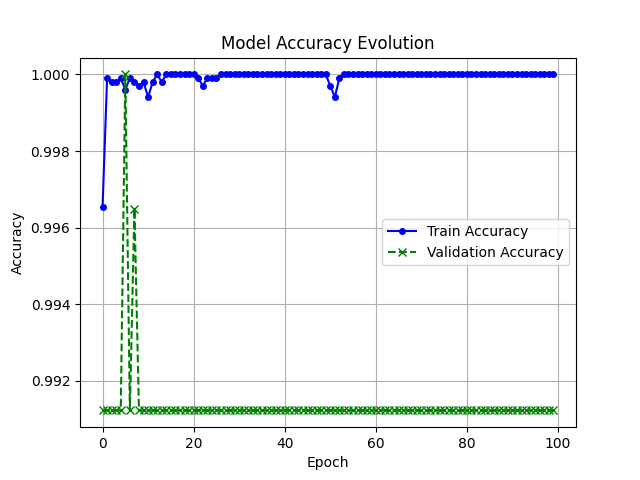
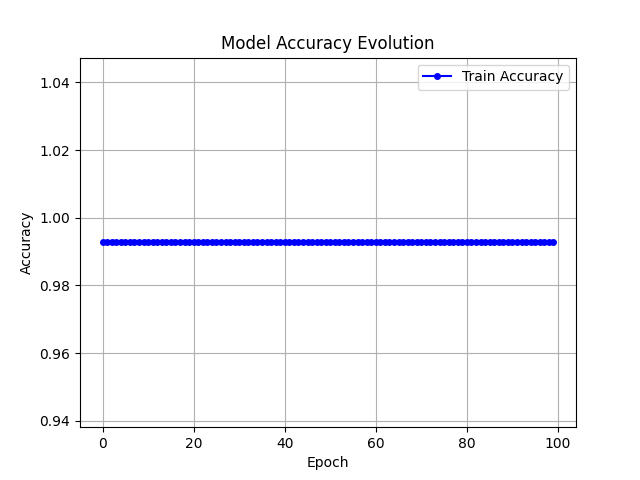
nn.py modified

diff --git a/src/daneel/detection/nn.py b/src/daneel/detection/nn.py
@@ -74,17 +74,23 @@ class NeuralNetworkDetector:
         df_dev_y = (df_eval["LABEL"] == 2).astype(int)
 
         return df_train_x, df_train_y, df_dev_x, df_dev_y
+    
+
+    
 
     def preprocess_data(self, df_train_x, df_train_y, df_dev_x, df_dev_y):
         print("Applying SMOTE to balance classes...")
-        sm = SMOTE()
-        df_train_x, df_train_y = sm.fit_resample(df_train_x, df_train_y)
+        #sm = SMOTE()
+        #df_train_x, df_train_y = sm.fit_resample(df_train_x, df_train_y)
+        
 
         print("Preprocessing data with Fourier Transform, Normalization, etc...")
-        processor = LightFluxProcessor()
-        df_train_x, df_dev_x = processor.process(df_train_x, df_dev_x)
+        processor = LightFluxProcessor()   #applying preprocess to the data already divided between data and labels
+        df_train_x, df_dev_x= processor.process(df_train_x, df_dev_x)
+        print(np.shape(df_train_x))
 
-        return df_train_x, df_train_y, df_dev_x, df_dev_y
+        return df_train_x, df_train_y, df_dev_x, df_dev_y  #the function just returns the values after the preprocessing
+
 
     def build_network(self, input_shape):
         model = tf.keras.models.Sequential()
@@ -107,20 +113,16 @@ class NeuralNetworkDetector:
 
     def train_and_evaluate(self):
         # Load and preprocess data
-        df_train_x, df_train_y, df_dev_x, df_dev_y = self.load_data()
-        df_train_x, df_train_y, df_dev_x, df_dev_y = self.preprocess_data(df_train_x, df_train_y, df_dev_x, df_dev_y)
+        df_train_x, df_train_y, df_dev_x, df_dev_y = self.load_data() #data loaded and divided
+
+        
+        df_train_x, df_train_y, df_dev_x, df_dev_y = self.preprocess_data(df_train_x, df_train_y, df_dev_x, df_dev_y) #divided data are preprocessed
 
         # Build and train the network
-        model = self.build_network(input_shape=df_train_x.shape[1:])
+        model = self.build_network(input_shape=df_train_x.shape[1:])  #now building the model for the specific input of data, returns the model with all of its characteristics
         print("Training Neural Network...")
-        history = model.fit(
-            df_train_x,
-            df_train_y,
-            validation_data=(df_dev_x, df_dev_y),
-            epochs=self.epochs,
-            batch_size=self.batch_size,
-            verbose=1  # Shows progress for each epoch
-        )
+        history = model.fit(df_train_x,  df_train_y, epochs=self.epochs,  batch_size=self.batch_size) # Shows progress for each epoch
+        
         
         # Plot accuracy and loss evolution
         self.plot_metrics(history)
@@ -129,40 +131,40 @@ class NeuralNetworkDetector:
         self.evaluate_model(model, df_train_x, df_train_y, df_dev_x, df_dev_y)
 
         # Save the model weights
-        model.save_weights("nn_model_weights.h5")
-        print("Model weights saved to nn_model_weights.h5")
+        #model.save_weights("nn_model_weights.h5")
+        #print("Model weights saved to nn_model_weights.h5")
 
-    def evaluate_model(self, model, X_train, Y_train, X_eval, Y_eval):
+    def evaluate_model(self, model, X_train, Y_train, X_dev, Y_dev):
         # Predictions
-        train_preds = (model.predict(X_train) > 0.5).astype(int)
-        eval_preds = (model.predict(X_eval) > 0.5).astype(int)
+        train_outputs = (model.predict(X_train, batch_size=self.batch_size) > 0.5).astype(int)
+        dev_outputs = (model.predict(X_dev, batch_size=self.batch_size) > 0.5).astype(int)
 
-        # Metrics
-        self.report_metrics(Y_train, train_preds, "Train")
-        self.report_metrics(Y_eval, eval_preds, "Eval")
+        # Final Metrics
+        accuracy_train = accuracy_score(Y_train, train_outputs)
+        accuracy_dev = accuracy_score(Y_dev, dev_outputs)
+        precision_train = precision_score(Y_train, train_outputs)
+        precision_dev = precision_score(Y_dev, dev_outputs)
+        recall_train = recall_score(Y_train, train_outputs)
+        recall_dev = recall_score(Y_dev, dev_outputs)
+        confusion_matrix_train = confusion_matrix(Y_train, train_outputs)
+        confusion_matrix_dev = confusion_matrix(Y_dev, dev_outputs)
 
-    def report_metrics(self, y_true, y_pred, dataset_name):
-        accuracy = accuracy_score(y_true, y_pred)
-        precision = precision_score(y_true, y_pred)
-        recall = recall_score(y_true, y_pred)
-        conf_matrix = confusion_matrix(y_true, y_pred)
-
-        print(f"Metrics for {dataset_name} Set:")
-        print(f"Accuracy: {accuracy:.2f}")
-        print(f"Precision: {precision:.2f}")
-        print(f"Recall: {recall:.2f}")
-        print(f"Confusion Matrix:\n{conf_matrix}\n")
-
+        print("Metrics:")
+        print(f"Train Accuracy: {accuracy_train:.2f}, Dev Accuracy: {accuracy_dev:.2f}")
+        print(f"Train Precision: {precision_train:.2f}, Dev Precision: {precision_dev:.2f}")
+        print(f"Train Recall: {recall_train:.2f}, Dev Recall: {recall_dev:.2f}")
+        print(f"Train Confusion Matrix:\n{confusion_matrix_train}")
+        print(f"Dev Confusion Matrix:\n{confusion_matrix_dev}")
       
 
     def plot_metrics(self, history):
         """Plots accuracy and loss evolution"""
         
         # Plot accuracy
-        if "accuracy" in history.history and "val_accuracy" in history.history:
+        if "accuracy" in history.history :
             plt.figure()
             plt.plot(history.history["accuracy"], marker="o", markersize=4, label="Train Accuracy", linestyle='-', color='b')
-            plt.plot(history.history["val_accuracy"], marker="x", markersize=6, label="Validation Accuracy", linestyle='--', color='g')
+            
             plt.title("Model Accuracy Evolution")
             plt.xlabel("Epoch")
             plt.ylabel("Accuracy")
@@ -174,10 +176,10 @@ class NeuralNetworkDetector:
             print("Warning: Accuracy metrics are missing from training history!")
 
         # Plot loss
-        if "loss" in history.history and "val_loss" in history.history:
+        if "loss" in history.history :
             plt.figure()
             plt.plot(history.history["loss"], marker="o", markersize=4, label="Train Loss", linestyle='-', color='b')
-            plt.plot(history.history["val_loss"], marker="x", markersize=6, label="Validation Loss", linestyle='--', color='r')
+            
             plt.title("Model Loss Evolution")
             plt.xlabel("Epoch")
             plt.ylabel("Loss")
